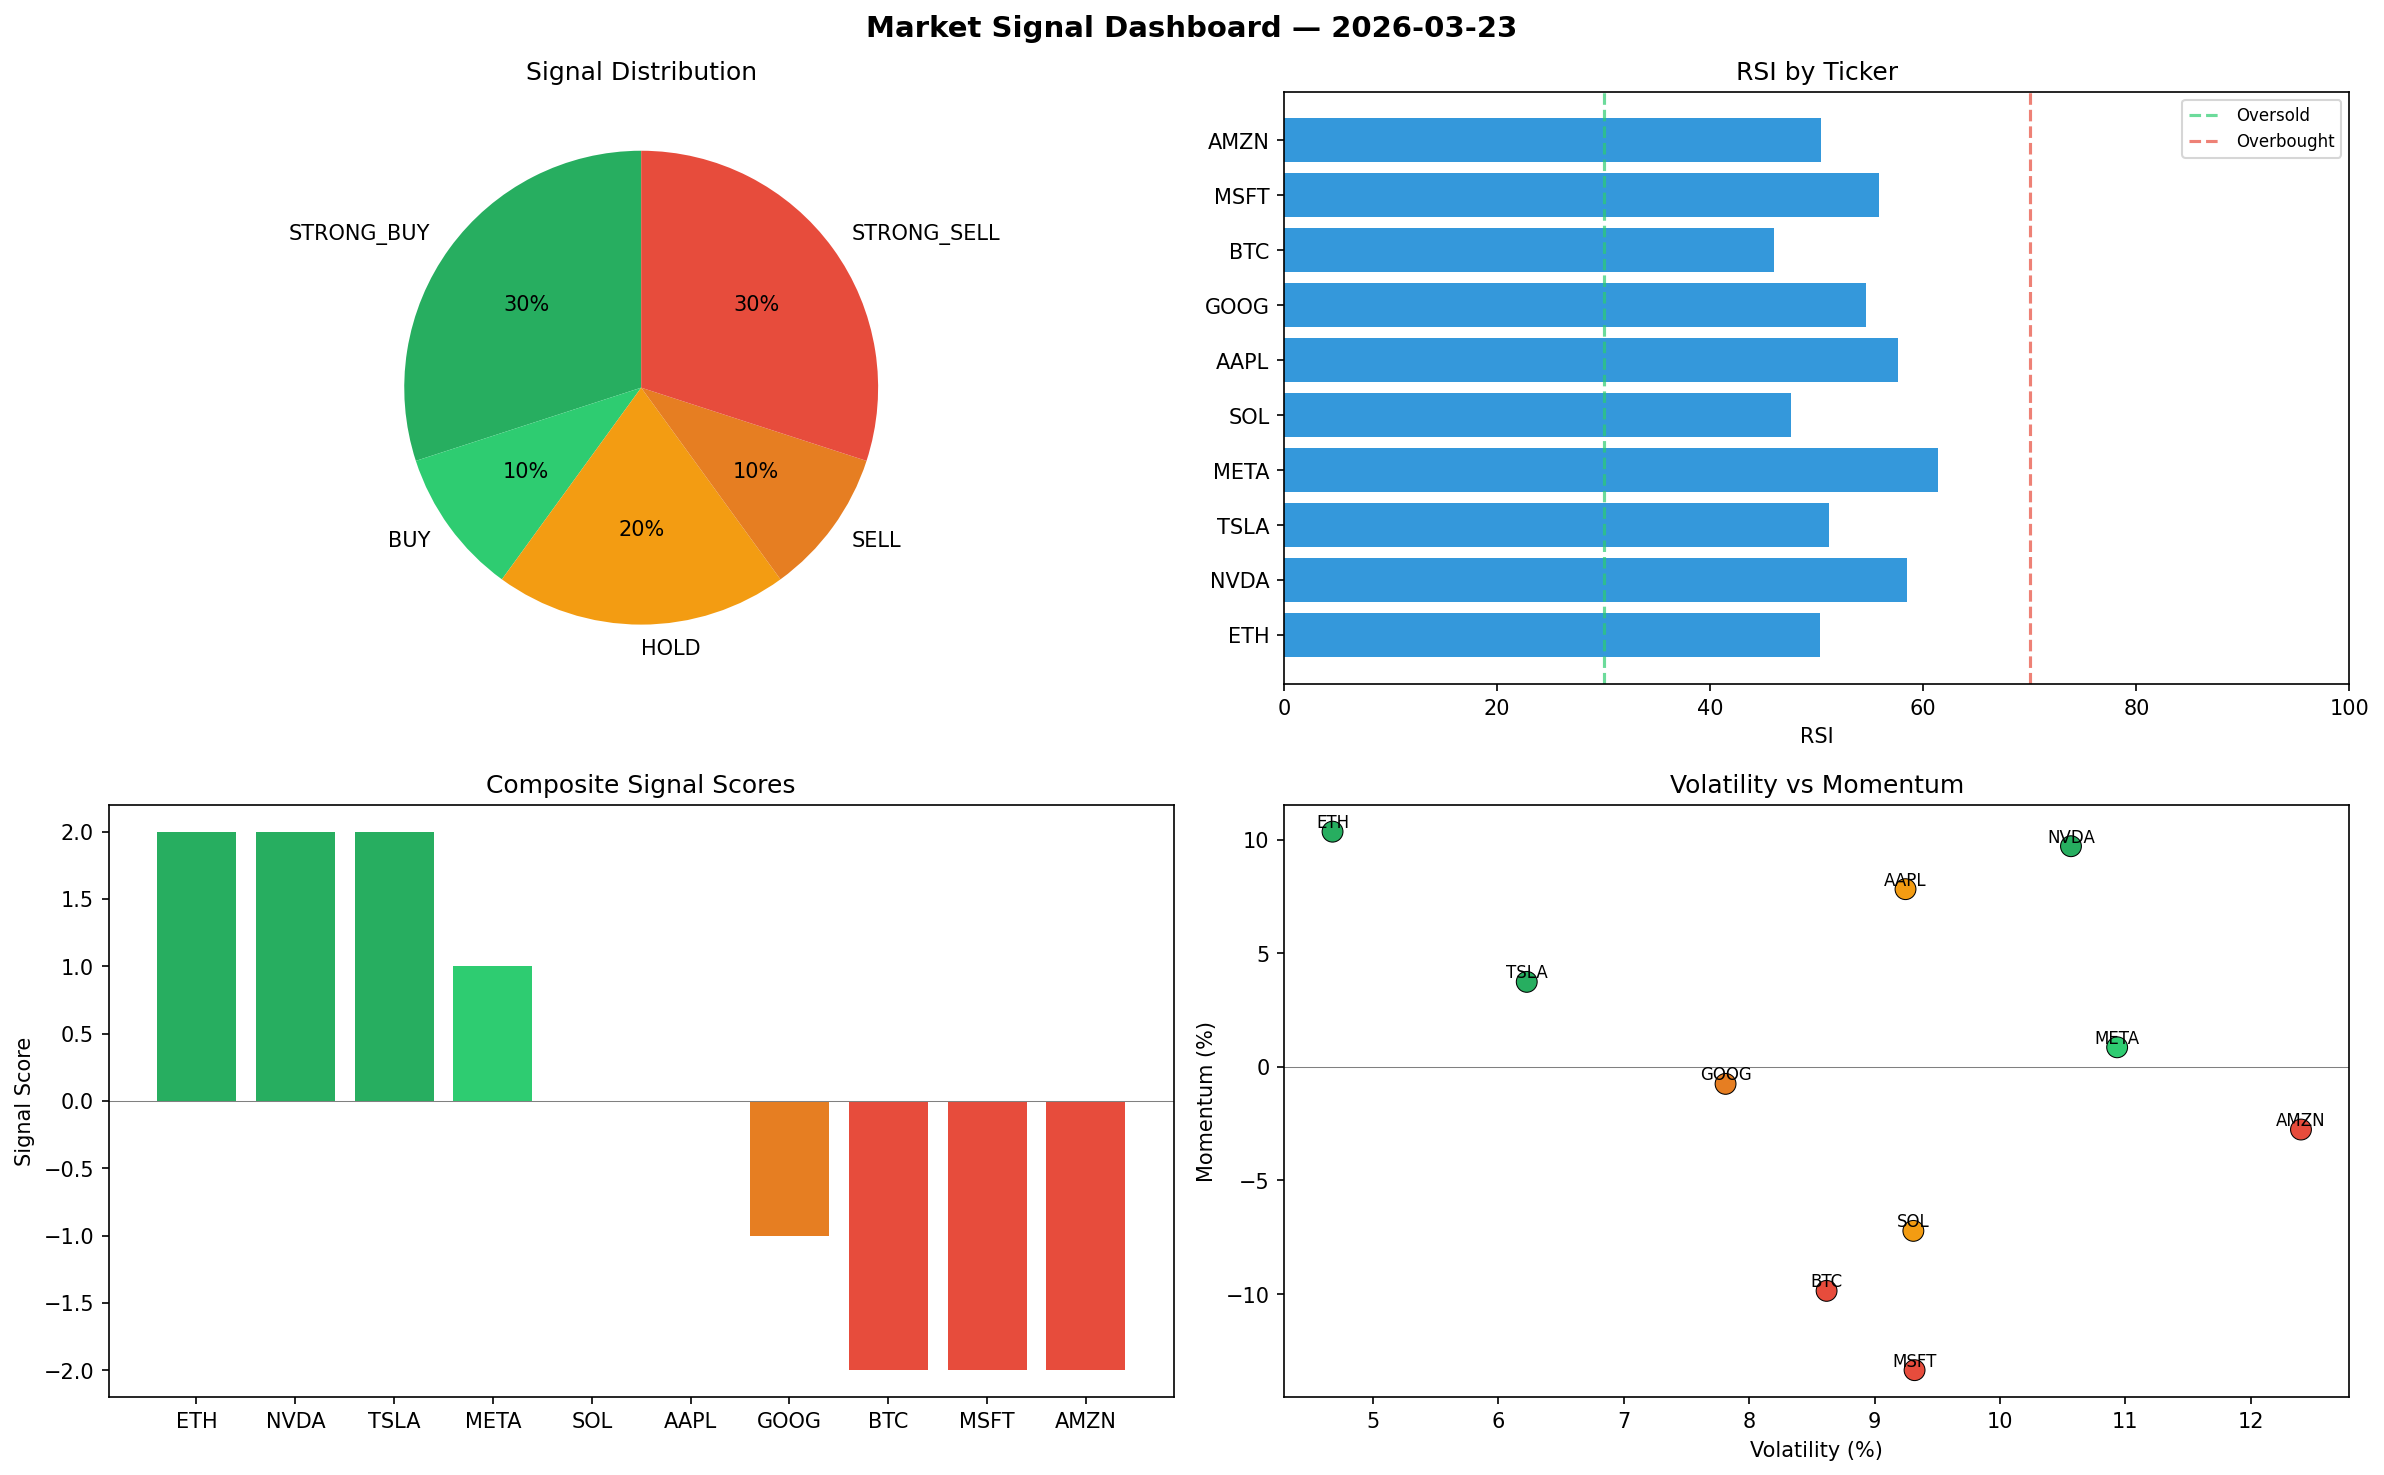
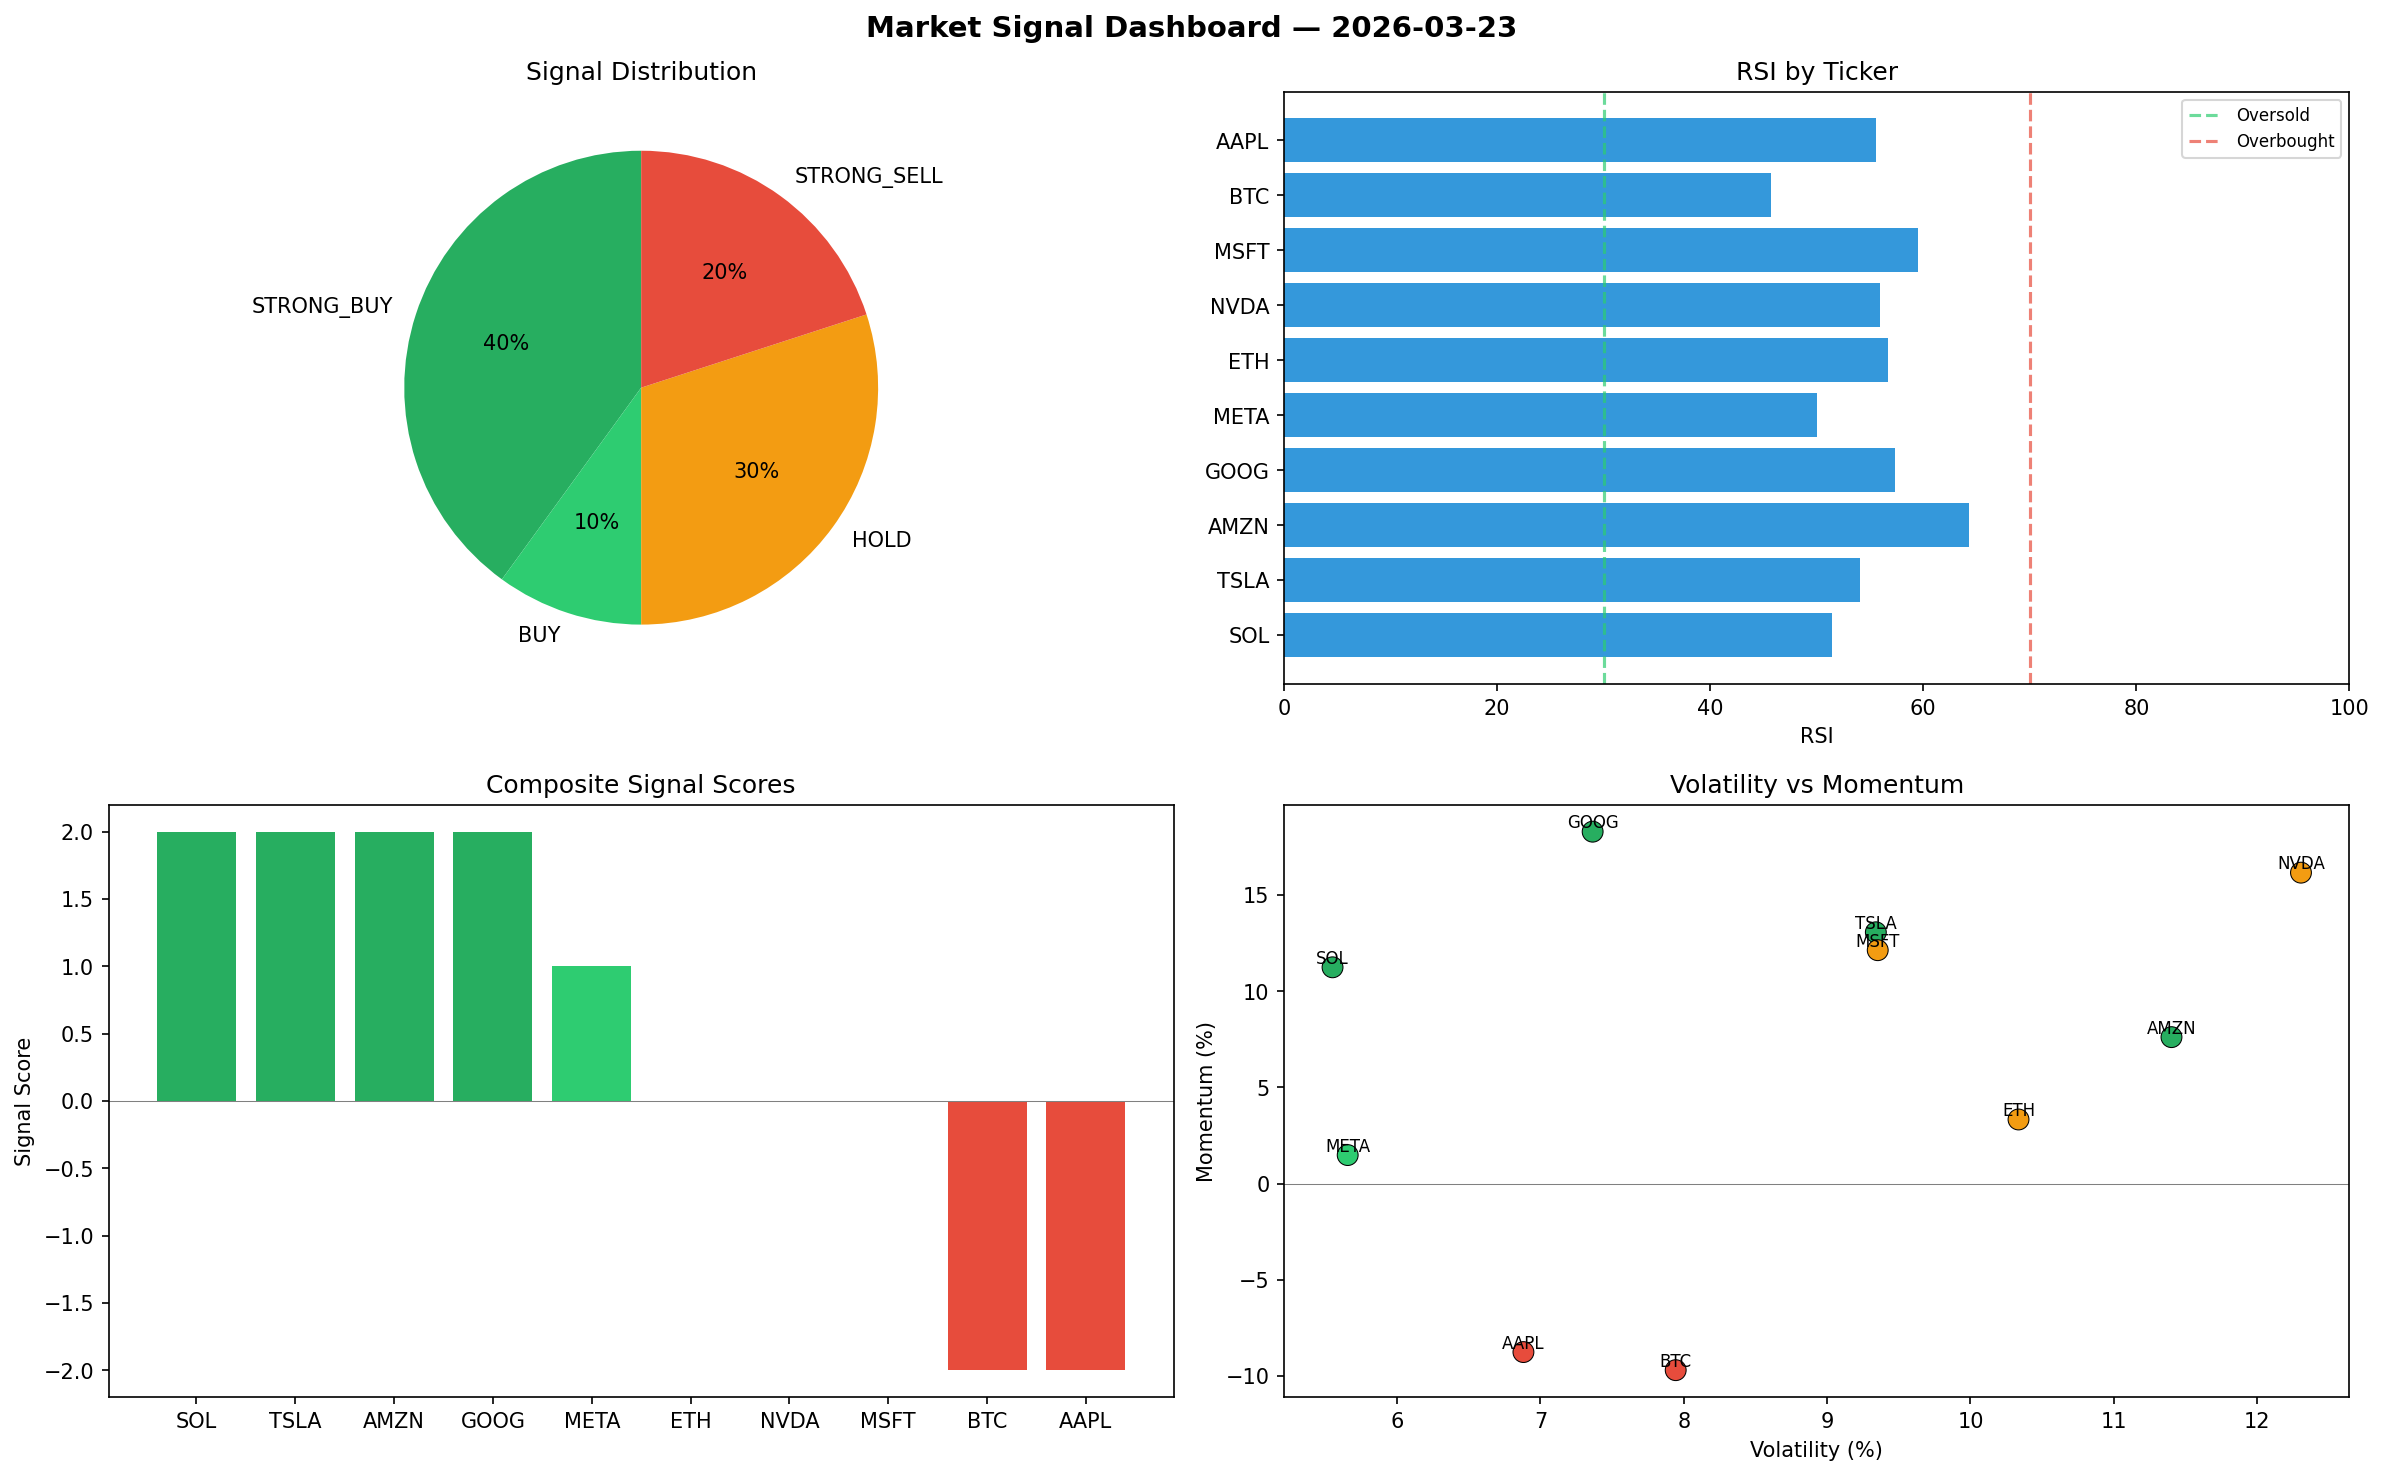
automated-bots: market signals 2026-03-23T15:35

diff --git a/logs/2026-03-23.md b/logs/2026-03-23.md
@@ -1,6 +1,6 @@
 # Market Signal Report — 2026-03-23
 
-**Run ID:** `370cbbc42b` | **Buy:** 4 | **Sell:** 4 | **Hold:** 2
+**Run ID:** `88df4a105e` | **Buy:** 5 | **Sell:** 2 | **Hold:** 3
 
 ![Dashboard](2026-03-23_dashboard.png)
 
@@ -8,28 +8,28 @@
 
 | Ticker | Price | Signal | Score | RSI | Momentum | Confidence |
 |--------|-------|--------|-------|-----|----------|------------|
-| ETH | $1394.9 | **STRONG_BUY** | 2 | 50.3 | 0.1035 | 0.5 |
-| NVDA | $2017.81 | **STRONG_BUY** | 2 | 58.43 | 0.0971 | 0.5 |
-| TSLA | $898.24 | **STRONG_BUY** | 2 | 51.16 | 0.0374 | 0.5 |
-| META | $4973.97 | **BUY** | 1 | 61.4 | 0.0086 | 0.25 |
-| SOL | $1934.75 | **HOLD** | 0 | 47.6 | -0.0722 | 0.0 |
-| AAPL | $3285.56 | **HOLD** | 0 | 57.62 | 0.0782 | 0.0 |
-| GOOG | $4646.83 | **SELL** | -1 | 54.65 | -0.0075 | 0.25 |
-| BTC | $3907.53 | **STRONG_SELL** | -2 | 45.99 | -0.0986 | 0.5 |
-| MSFT | $1737.01 | **STRONG_SELL** | -2 | 55.84 | -0.1335 | 0.5 |
-| AMZN | $1135.58 | **STRONG_SELL** | -2 | 50.42 | -0.0276 | 0.5 |
+| SOL | $4339.59 | **STRONG_BUY** | 2 | 51.46 | 0.1124 | 0.5 |
+| TSLA | $1302.67 | **STRONG_BUY** | 2 | 54.04 | 0.1306 | 0.5 |
+| AMZN | $2441.46 | **STRONG_BUY** | 2 | 64.3 | 0.0761 | 0.5 |
+| GOOG | $5234.33 | **STRONG_BUY** | 2 | 57.36 | 0.1829 | 0.5 |
+| META | $3989.41 | **BUY** | 1 | 50.02 | 0.0148 | 0.25 |
+| ETH | $1878.89 | **HOLD** | 0 | 56.66 | 0.0333 | 0.0 |
+| NVDA | $2943.81 | **HOLD** | 0 | 55.89 | 0.1616 | 0.0 |
+| MSFT | $752.61 | **HOLD** | 0 | 59.52 | 0.1213 | 0.0 |
+| BTC | $3245.23 | **STRONG_SELL** | -2 | 45.72 | -0.097 | 0.5 |
+| AAPL | $2206.24 | **STRONG_SELL** | -2 | 55.58 | -0.0876 | 0.5 |
 
 ## Delta vs Yesterday
 
 | Ticker | Today | Yesterday | Price Change | Signal Changed |
 |--------|-------|-----------|-------------|----------------|
-| ETH | STRONG_BUY | STRONG_SELL | 📈 8.21% | ⚠ YES |
-| NVDA | STRONG_BUY | STRONG_BUY | 📈 8.94% | — |
-| TSLA | STRONG_BUY | STRONG_SELL | 📉 -80.69% | ⚠ YES |
-| META | BUY | STRONG_BUY | 📉 -1.26% | ⚠ YES |
-| SOL | HOLD | STRONG_BUY | 📉 -48.56% | ⚠ YES |
-| AAPL | HOLD | STRONG_BUY | 📈 284.75% | ⚠ YES |
-| GOOG | SELL | SELL | 📈 100.12% | — |
-| BTC | STRONG_SELL | STRONG_BUY | 📈 35.14% | ⚠ YES |
-| MSFT | STRONG_SELL | BUY | 📉 -64.35% | ⚠ YES |
-| AMZN | STRONG_SELL | STRONG_SELL | 📈 16.34% | — |
+| SOL | STRONG_BUY | STRONG_BUY | 📈 15.37% | — |
+| TSLA | STRONG_BUY | STRONG_SELL | 📉 -72.0% | ⚠ YES |
+| AMZN | STRONG_BUY | STRONG_SELL | 📈 150.13% | ⚠ YES |
+| GOOG | STRONG_BUY | SELL | 📈 125.42% | ⚠ YES |
+| META | BUY | STRONG_BUY | 📉 -20.81% | ⚠ YES |
+| ETH | HOLD | STRONG_SELL | 📈 45.75% | ⚠ YES |
+| NVDA | HOLD | STRONG_BUY | 📈 58.94% | ⚠ YES |
+| MSFT | HOLD | BUY | 📉 -84.55% | ⚠ YES |
+| BTC | STRONG_SELL | STRONG_BUY | 📈 12.23% | ⚠ YES |
+| AAPL | STRONG_SELL | STRONG_BUY | 📈 158.36% | ⚠ YES |
